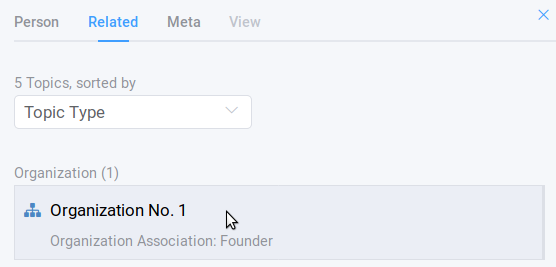
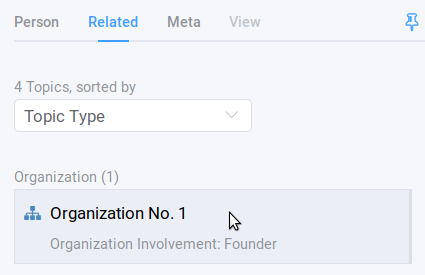
Updated section on 'related' tab, redid some screenshots of detail panel

diff --git a/docs/user.rst b/docs/user.rst
@@ -215,8 +215,9 @@ The "Info" tab
 The first tab is a general info tab.
 You get there by selecting "Details" from the :ref:`context menu<user-the-context-menu>`.
 The "Info" tab is always labelled with the type of the selected item, e.g. "Person" or "Event".
+It shows the direct child topics of what is currently selected as this is the most commonly wanted information.
 In its display mode it shows only those fields containing data.
-You can click "Reveal" on details to reveal them on the current topicmap.
+You can reveal the listed child topics on the current topicmap by clicking the little eye symbol.
 
 .. image:: _static/detail-panel-reveal-button.png
 
@@ -233,17 +234,19 @@ The "Related" tab
 -----------------
 
 The second tab is called "Related".
-Again, you can directly open the detail panel with this tab by choosing "Related" from the context menu.
-This tab lists *all* items related to your selection: 
+You can jump directly to this tab by choosing "Related" from the context menu or - if the detail panel is already open - by selecting the tab.
+This tab lists items related to your selection on the topicmap.
+It does *not* list the direct child topics, though, to avoid redundancy between the "Info" tab and the "Related" tab.
+(You can find the direct child topics in the "Info" tab and in the in-map details.)
 
 * On top, you can see the number of related items and the sort order. By default the list is sorted by topic type. In the example below you can see that the selected person is related to an organization, to the person's name, to a publication, to the topic type "Person", to the topicmap you are working on and to the workspace you are in. This means that you can navigate your content and your data model in the same place. (You will learn more about these concepts in the section about :ref:`Modeling<user-modeling>`.)
-* Additionally, every list item contains information about the association type between the selected person and the other items, e.g. their role in the organization, or that this person is an instance of the topic type person.
+* Additionally, every list item contains information about the association type between the selected person and the other items, e.g. their involvement with the organization, or that this person is an instance of the topic type person.
 
-.. image:: _static/detail-panel-related-tab.jpg
+.. image:: _static/detail-panel-related-tab.png
 
 * Depending on what you are searching for you might want to change the sort order. If you select "Association Type" in the upper drop-down menu you get a different view onto the same data: Think of a working situation where you look for all publications the selected person wrote or for all organizations that person is related to. You could list them with the sort order "Association Type" as shown here:
 
-.. image:: _static/detail-panel-related-tab-sort-order.jpg
+.. image:: _static/detail-panel-related-tab-sort-order.png
 
 * The third sorting mechanism is called "Topic". It displays the same information in alphabetical order of the labels (that is the "display names" of the items).
 * Items that have a blue border on the right side are already revealed on the map. All other items can be revealed with a click.
@@ -726,7 +729,7 @@ Associative navigation
 ======================
 
 As DMX is made to work like a human brain you can navigate in an associative way.
-The "Related" tab of the :ref:`detail panel<user-the-detail-panel>` detail panel permits you to navigate the database by listing all associated items.
+The "Related" tab of the :ref:`detail panel<user-the-detail-panel>` detail panel permits you to navigate the database by listing associated items.
 
 Use the "Related" button in the context menu to get there.
 
